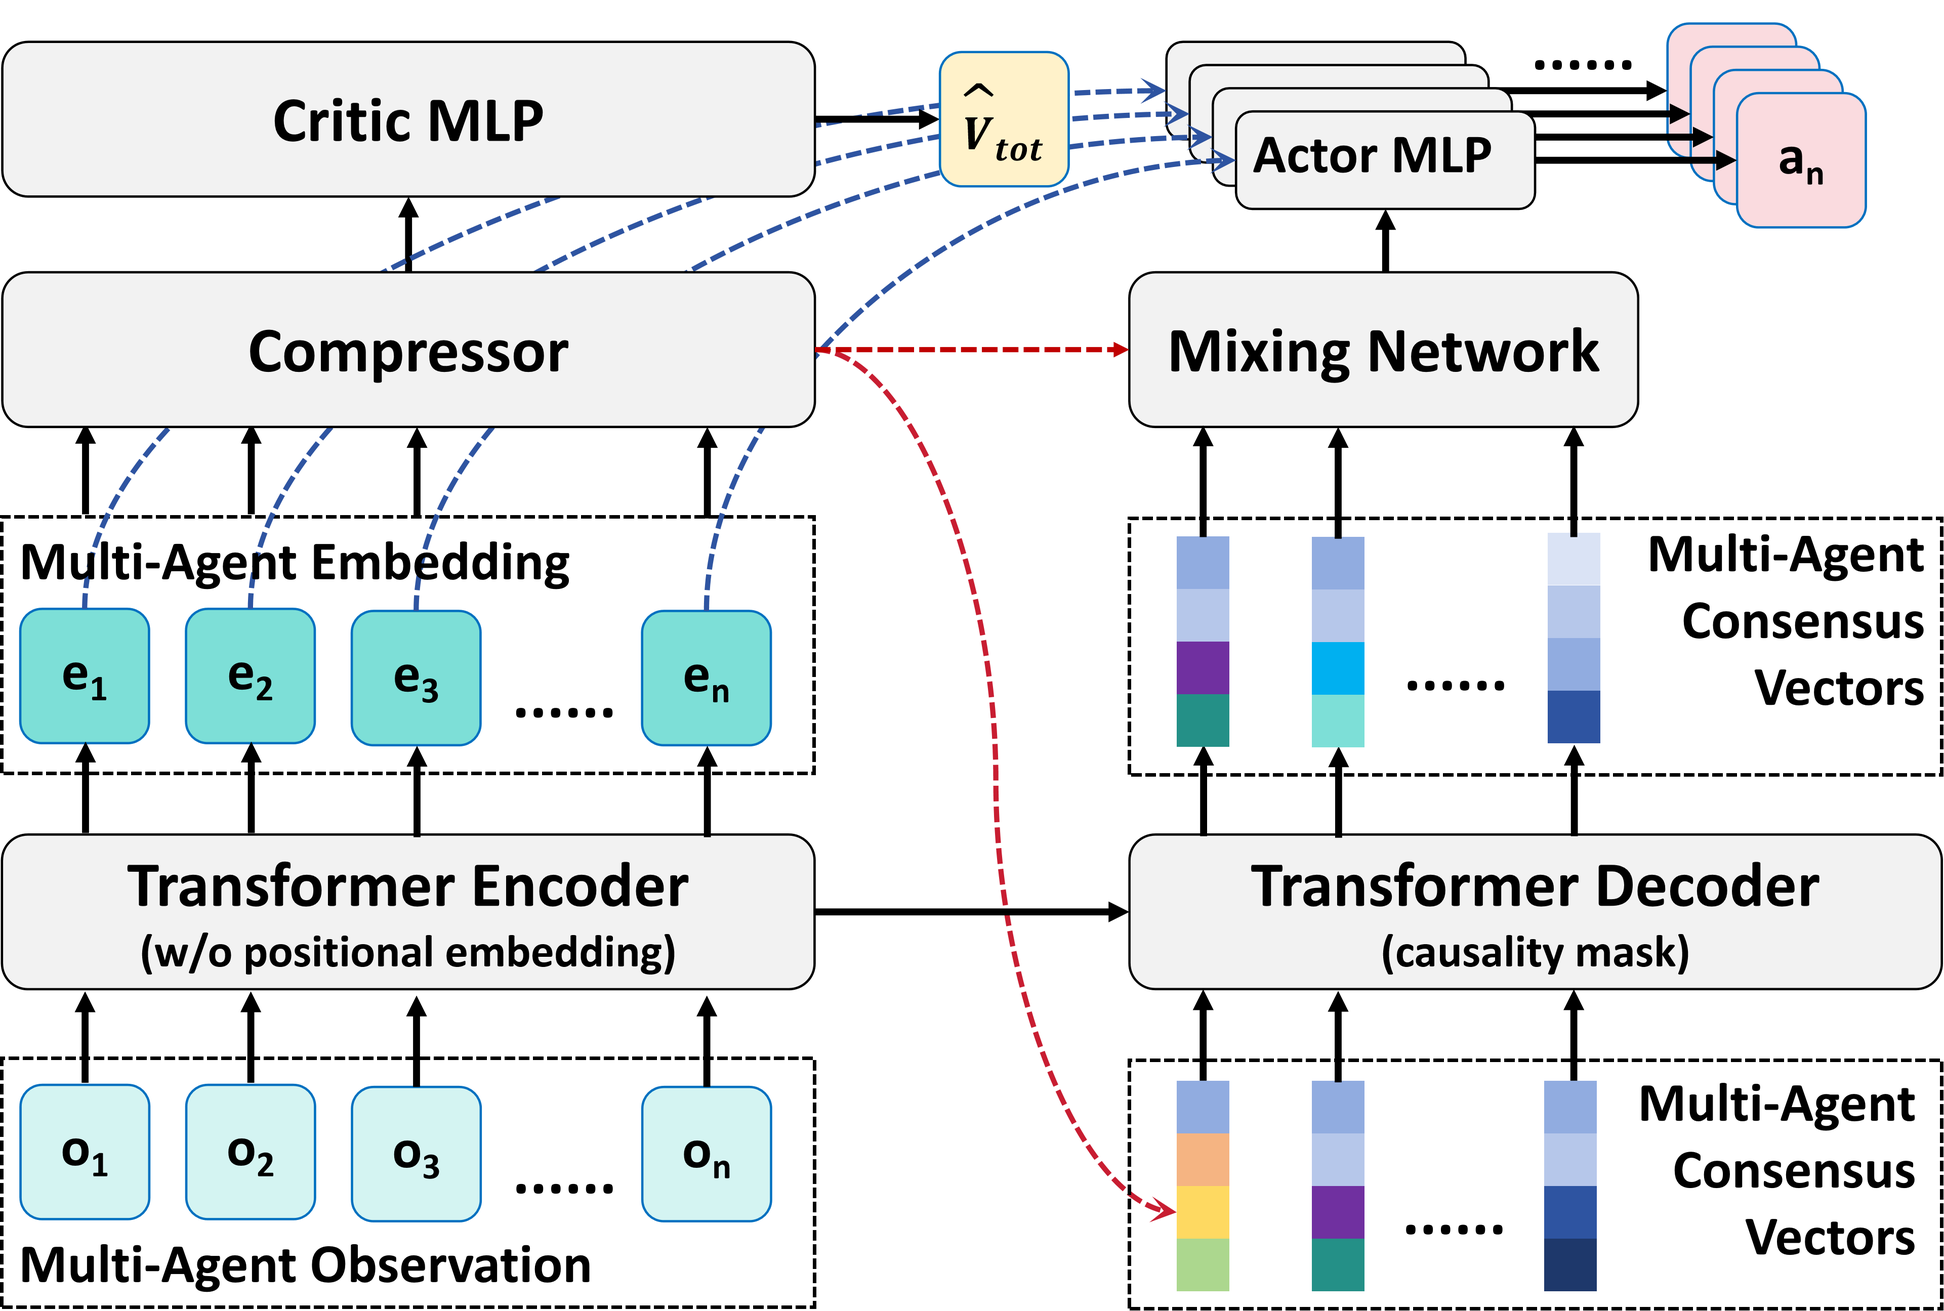
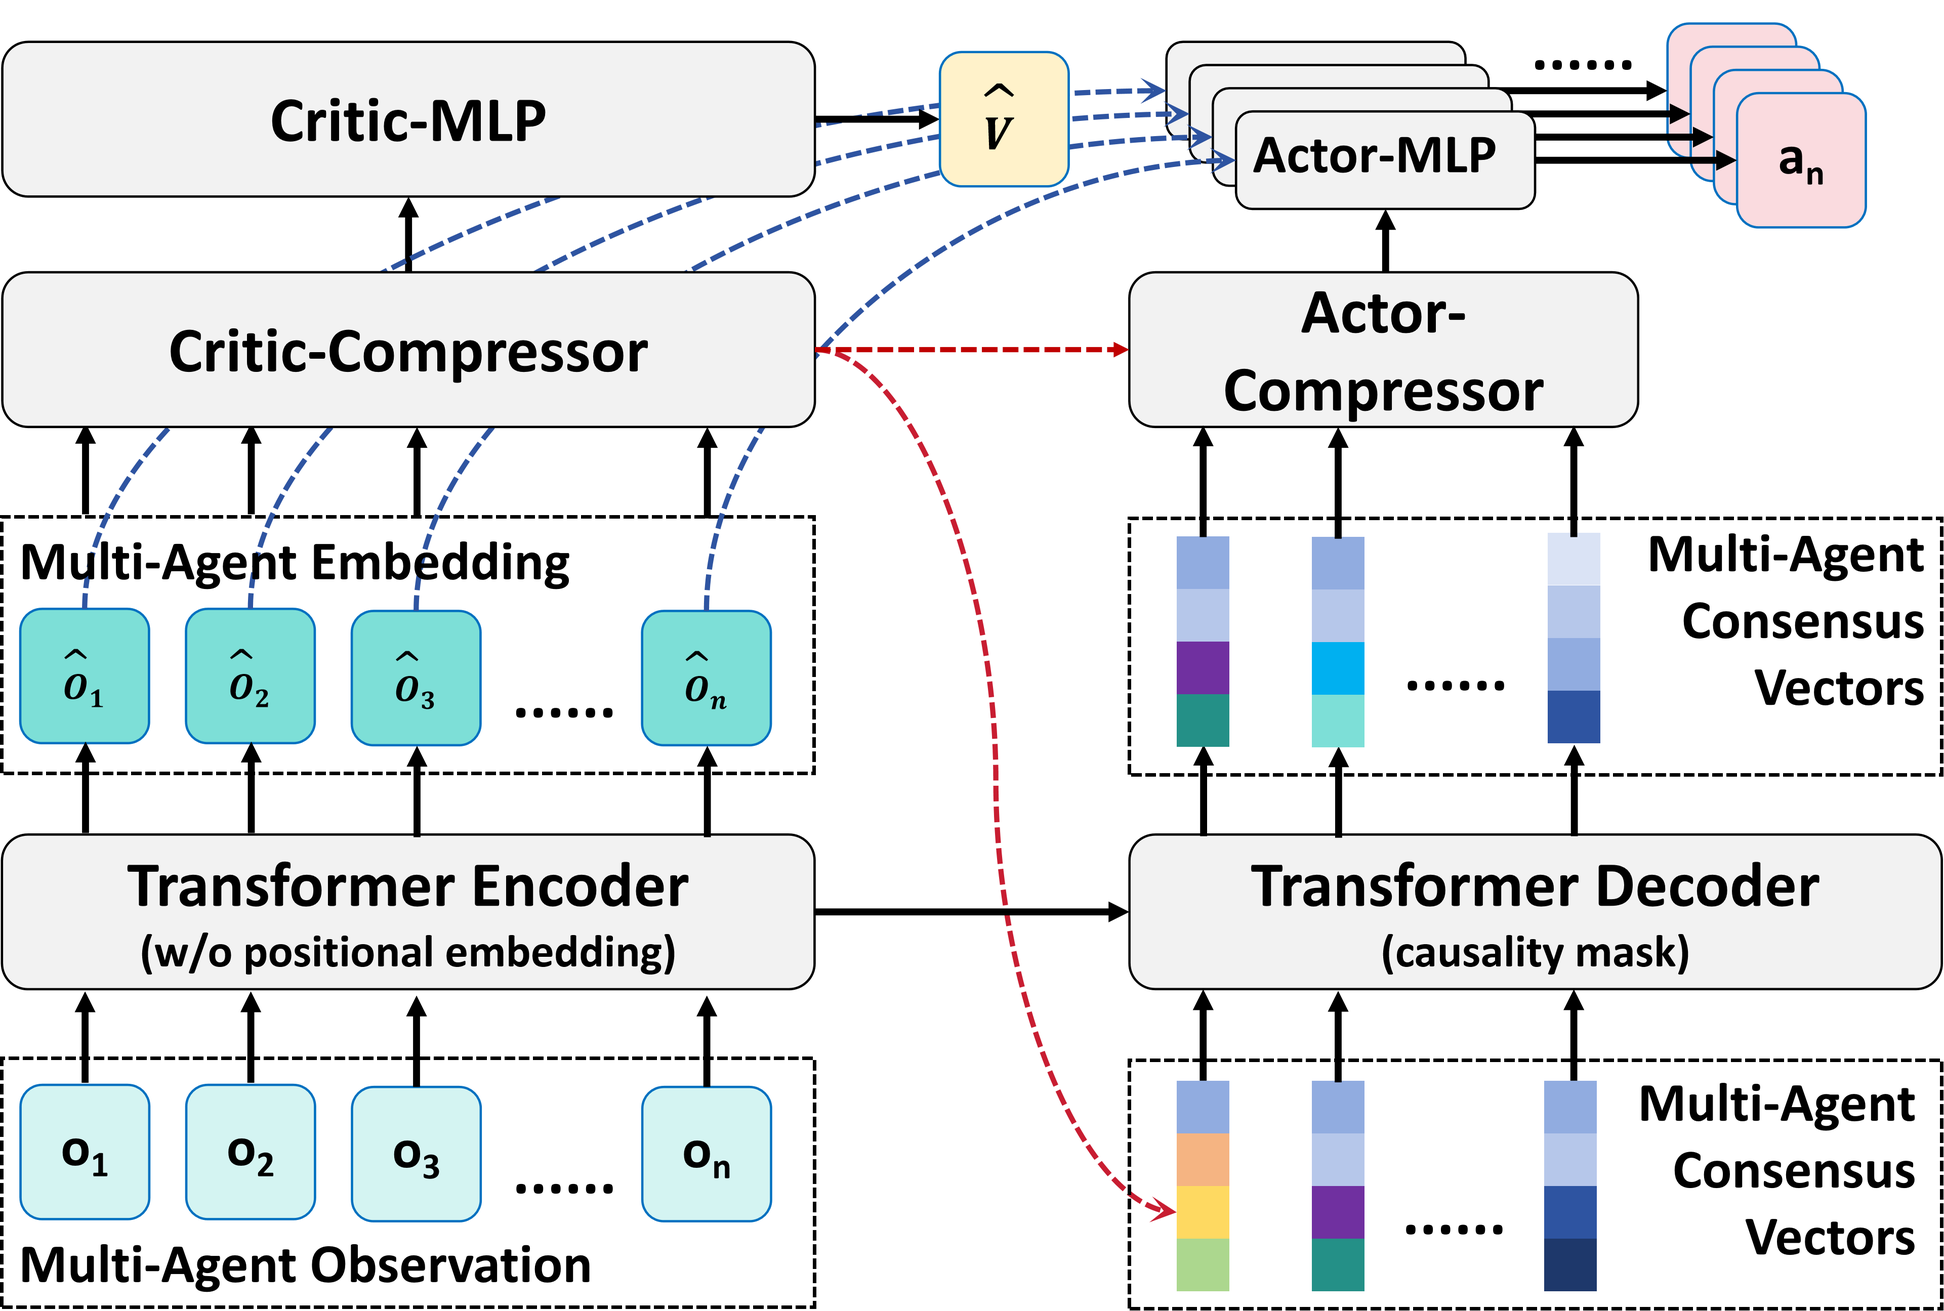
add trainer

diff --git a/mat_trainer.py b/mat_trainer.py
@@ -1,0 +1,207 @@
+import numpy as np
+import torch
+import torch.nn as nn
+from mat.utils.util import get_gard_norm, huber_loss, mse_loss
+from mat.utils.valuenorm import ValueNorm
+from mat.algorithms.utils.util import check
+
+
+class MATTrainer:
+    """
+    Trainer class for MAT to update policies.
+    :param args: (argparse.Namespace) arguments containing relevant model, policy, and env information.
+    :param policy: (R_MAPPO_Policy) policy to update.
+    :param device: (torch.device) specifies the device to run on (cpu/gpu).
+    """
+    def __init__(self,
+                 args,
+                 policy,
+                 num_agents,
+                 device=torch.device("cpu")):
+
+        self.device = device
+        self.tpdv = dict(dtype=torch.float32, device=device)
+        self.policy = policy
+        self.num_agents = num_agents
+
+        self.clip_param = args.clip_param
+        self.ppo_epoch = args.ppo_epoch
+        self.num_mini_batch = args.num_mini_batch
+        self.data_chunk_length = args.data_chunk_length
+        self.value_loss_coef = args.value_loss_coef
+        self.entropy_coef = args.entropy_coef
+        self.max_grad_norm = args.max_grad_norm       
+        self.huber_delta = args.huber_delta
+
+        self._use_recurrent_policy = args.use_recurrent_policy
+        self._use_naive_recurrent = args.use_naive_recurrent_policy
+        self._use_max_grad_norm = args.use_max_grad_norm
+        self._use_clipped_value_loss = args.use_clipped_value_loss
+        self._use_huber_loss = args.use_huber_loss
+        self._use_valuenorm = args.use_valuenorm
+        self._use_value_active_masks = args.use_value_active_masks
+        self._use_policy_active_masks = args.use_policy_active_masks
+        self.dec_actor = args.dec_actor
+        
+        if self._use_valuenorm:
+            self.value_normalizer = ValueNorm(1, device=self.device)
+        else:
+            self.value_normalizer = None
+
+    def cal_value_loss(self, values, value_preds_batch, return_batch, active_masks_batch):
+        """
+        Calculate value function loss.
+        :param values: (torch.Tensor) value function predictions.
+        :param value_preds_batch: (torch.Tensor) "old" value  predictions from data batch (used for value clip loss)
+        :param return_batch: (torch.Tensor) reward to go returns.
+        :param active_masks_batch: (torch.Tensor) denotes if agent is active or dead at a given timesep.
+
+        :return value_loss: (torch.Tensor) value function loss.
+        """
+
+        value_pred_clipped = value_preds_batch + (values - value_preds_batch).clamp(-self.clip_param,
+                                                                                    self.clip_param)
+
+        if self._use_valuenorm:
+            self.value_normalizer.update(return_batch)
+            error_clipped = self.value_normalizer.normalize(return_batch) - value_pred_clipped
+            error_original = self.value_normalizer.normalize(return_batch) - values
+        else:
+            error_clipped = return_batch - value_pred_clipped
+            error_original = return_batch - values
+
+        if self._use_huber_loss:
+            value_loss_clipped = huber_loss(error_clipped, self.huber_delta)
+            value_loss_original = huber_loss(error_original, self.huber_delta)
+        else:
+            value_loss_clipped = mse_loss(error_clipped)
+            value_loss_original = mse_loss(error_original)
+
+        if self._use_clipped_value_loss:
+            value_loss = torch.max(value_loss_original, value_loss_clipped)
+        else:
+            value_loss = value_loss_original
+
+        # if self._use_value_active_masks and not self.dec_actor:
+        if self._use_value_active_masks:
+            value_loss = (value_loss * active_masks_batch).sum() / active_masks_batch.sum()
+        else:
+            value_loss = value_loss.mean()
+
+        return value_loss
+
+    def ppo_update(self, sample):
+        """
+        Update actor and critic networks.
+        :param sample: (Tuple) contains data batch with which to update networks.
+        :update_actor: (bool) whether to update actor network.
+
+        :return value_loss: (torch.Tensor) value function loss.
+        :return critic_grad_norm: (torch.Tensor) gradient norm from critic up9date.
+        ;return policy_loss: (torch.Tensor) actor(policy) loss value.
+        :return dist_entropy: (torch.Tensor) action entropies.
+        :return actor_grad_norm: (torch.Tensor) gradient norm from actor update.
+        :return imp_weights: (torch.Tensor) importance sampling weights.
+        """
+        share_obs_batch, obs_batch, rnn_states_batch, rnn_states_critic_batch, actions_batch, \
+        value_preds_batch, return_batch, masks_batch, active_masks_batch, old_action_log_probs_batch, \
+        adv_targ, available_actions_batch = sample
+
+        old_action_log_probs_batch = check(old_action_log_probs_batch).to(**self.tpdv)
+        adv_targ = check(adv_targ).to(**self.tpdv)
+        value_preds_batch = check(value_preds_batch).to(**self.tpdv)
+        return_batch = check(return_batch).to(**self.tpdv)
+        active_masks_batch = check(active_masks_batch).to(**self.tpdv)
+
+        # Reshape to do in a single forward pass for all steps
+        values, action_log_probs, dist_entropy = self.policy.evaluate_actions(share_obs_batch,
+                                                                              obs_batch, 
+                                                                              rnn_states_batch, 
+                                                                              rnn_states_critic_batch, 
+                                                                              actions_batch, 
+                                                                              masks_batch, 
+                                                                              available_actions_batch,
+                                                                              active_masks_batch)
+        # actor update
+        imp_weights = action_log_probs - old_action_log_probs_batch
+        imp_weights = torch.sum(imp_weights,dim=-1,keepdim=True)
+        imp_weights = torch.exp(imp_weights)
+
+        surr1 = imp_weights * adv_targ
+        surr2 = torch.clamp(imp_weights, 1.0 - self.clip_param, 1.0 + self.clip_param) * adv_targ
+
+        if self._use_policy_active_masks:
+            policy_loss = (-torch.mean(torch.min(surr1, surr2),
+                                      dim=-1,
+                                      keepdim=True) * active_masks_batch).sum() / active_masks_batch.sum()
+        else:
+            policy_loss = -torch.sum(torch.min(surr1, surr2), dim=-1, keepdim=True).mean()
+
+        # critic update
+        value_loss = self.cal_value_loss(values, value_preds_batch, return_batch, active_masks_batch)
+
+        loss = policy_loss - dist_entropy * self.entropy_coef + value_loss * self.value_loss_coef
+
+        self.policy.optimizer.zero_grad()
+        loss.backward()
+
+        if self._use_max_grad_norm:
+            grad_norm = nn.utils.clip_grad_norm_(self.policy.transformer.parameters(), self.max_grad_norm)
+        else:
+            grad_norm = get_gard_norm(self.policy.transformer.parameters())
+
+        self.policy.optimizer.step()
+
+        return value_loss, grad_norm, policy_loss, dist_entropy, grad_norm, imp_weights
+
+    def train(self, buffer):
+        """
+        Perform a training update using minibatch GD.
+        :param buffer: (SharedReplayBuffer) buffer containing training data.
+        :param update_actor: (bool) whether to update actor network.
+
+        :return train_info: (dict) contains information regarding training update (e.g. loss, grad norms, etc).
+        """
+        advantages_copy = buffer.advantages.copy()
+        advantages_copy[buffer.active_masks[:-1] == 0.0] = np.nan
+        mean_advantages = np.nanmean(advantages_copy)
+        std_advantages = np.nanstd(advantages_copy)
+        advantages = (buffer.advantages - mean_advantages) / (std_advantages + 1e-5)
+        
+
+        train_info = {}
+
+        train_info['value_loss'] = 0
+        train_info['policy_loss'] = 0
+        train_info['dist_entropy'] = 0
+        train_info['actor_grad_norm'] = 0
+        train_info['critic_grad_norm'] = 0
+        train_info['ratio'] = 0
+
+        for _ in range(self.ppo_epoch):
+            data_generator = buffer.feed_forward_generator_transformer(advantages, self.num_mini_batch)
+
+            for sample in data_generator:
+
+                value_loss, critic_grad_norm, policy_loss, dist_entropy, actor_grad_norm, imp_weights \
+                    = self.ppo_update(sample)
+
+                train_info['value_loss'] += value_loss.item()
+                train_info['policy_loss'] += policy_loss.item()
+                train_info['dist_entropy'] += dist_entropy.item()
+                train_info['actor_grad_norm'] += actor_grad_norm
+                train_info['critic_grad_norm'] += critic_grad_norm
+                train_info['ratio'] += imp_weights.mean()
+
+        num_updates = self.ppo_epoch * self.num_mini_batch
+
+        for k in train_info.keys():
+            train_info[k] /= num_updates
+ 
+        return train_info
+
+    def prep_training(self):
+        self.policy.train()
+
+    def prep_rollout(self):
+        self.policy.eval()

diff --git a/cmat.py b/cmat.py
@@ -11,6 +11,7 @@ from mat.algorithms.utils.transformer_act import continuous_autoregreesive_act
 from mat.algorithms.utils.transformer_act import continuous_parallel_act
 from torch.distributions import Categorical, Normal
 
+Consensus_length = None
 
 class SelfCompression(nn.Module):
     def __init__(self, input_dim, output_dim, da, r):
@@ -217,38 +218,15 @@ class Decoder(nn.Module):
         if self.dec_actor:
             print("Don't support dec_actor.")
             exit()
-            # if self.share_actor:
-            #     print("mac_dec!!!!!")
-            #     self.mlp = nn.Sequential(nn.LayerNorm(obs_dim),
-            #                              init_(nn.Linear(obs_dim, n_embd), activate=True), nn.GELU(), nn.LayerNorm(n_embd),
-            #                              init_(nn.Linear(n_embd, n_embd), activate=True), nn.GELU(), nn.LayerNorm(n_embd),
-            #                              init_(nn.Linear(n_embd, action_dim)))
-            # else:
-            #     self.mlp = nn.ModuleList()
-            #     for n in range(n_agent):
-            #         actor = nn.Sequential(nn.LayerNorm(obs_dim),
-            #                               init_(nn.Linear(obs_dim, n_embd), activate=True), nn.GELU(), nn.LayerNorm(n_embd),
-            #                               init_(nn.Linear(n_embd, n_embd), activate=True), nn.GELU(), nn.LayerNorm(n_embd),
-            #                               init_(nn.Linear(n_embd, action_dim)))
-            #         self.mlp.append(actor)
         else:
-            # # self.agent_id_emb = nn.Parameter(torch.zeros(1, n_agent, n_embd))
-            # if action_type == 'Discrete':
-            #     self.action_encoder = nn.Sequential(init_(nn.Linear(action_dim + 1, n_embd, bias=False), activate=True),
-            #                                         nn.GELU())
-            # else:
-            #     self.action_encoder = nn.Sequential(init_(nn.Linear(action_dim, n_embd), activate=True), nn.GELU())
-            # self.obs_encoder = nn.Sequential(nn.LayerNorm(obs_dim),
-            #                                  init_(nn.Linear(obs_dim, n_embd), activate=True), nn.GELU())
-            # self.ln = nn.LayerNorm(n_embd)
-            # self.blocks = nn.Sequential(*[DecodeBlock(n_embd, n_head, n_agent) for _ in range(n_block)])
-            # self.head = nn.Sequential(init_(nn.Linear(n_embd, n_embd), activate=True), nn.GELU(), nn.LayerNorm(n_embd),
-            #                           init_(nn.Linear(n_embd, action_dim)))
+
+            if Consensus_length is None:
+                self.consensus_len = n_agent
+            else:
+                self.consensus_len = Consensus_length
 
             self.sos = nn.Parameter(torch.randn([1, n_embd]), requires_grad=True)
-
-            # self.compressor = SelfCompression(n_embd, n_embd, n_embd, 4)
-            self.blocks = nn.Sequential(*[DecodeBlock(n_embd, n_head, n_agent) for _ in range(n_block)])
+            self.blocks = nn.Sequential(*[DecodeBlock(n_embd, n_head, self.consensus_len) for _ in range(n_block)])
 
             self.projector = nn.Sequential(nn.LayerNorm(n_embd),
                                            init_(nn.Linear(n_embd, n_embd), activate=True), nn.GELU(),
@@ -259,18 +237,11 @@ class Decoder(nn.Module):
                                       init_(nn.Linear(n_embd, 1)))
             self.softmax = nn.Softmax(dim=1)
 
-            # self.head = nn.ModuleList()
-            # for n in range(n_agent):
-            #     actor = nn.Sequential(nn.LayerNorm(n_embd),
-            #                           init_(nn.Linear(n_embd, n_embd), activate=True), nn.GELU(), nn.LayerNorm(n_embd),
-            #                           init_(nn.Linear(n_embd, n_embd), activate=True), nn.GELU(), nn.LayerNorm(n_embd),
-            #                           init_(nn.Linear(n_embd, action_dim)))
-            #     self.head.append(actor)
             self.head = nn.Sequential(
                 nn.LayerNorm(n_embd * 2),
                 init_(nn.Linear(n_embd * 2, n_embd), activate=True), nn.GELU(), nn.LayerNorm(n_embd),
                 init_(nn.Linear(n_embd, action_dim)))
-            self.pos_emb = get_sinusoidal_pos_emb(n_agent, n_embd)
+            self.pos_emb = get_sinusoidal_pos_emb(self.consensus_len, n_embd)
 
     def zero_std(self, device):
         if self.action_type != 'Discrete':
@@ -286,25 +257,9 @@ class Decoder(nn.Module):
         if self.dec_actor:
             print("Don't support dec_actor.")
             exit()
-            # if self.share_actor:
-            #     logit = self.mlp(obs)
-            # else:
-            #     logit = []
-            #     for n in range(len(self.mlp)):
-            #         logit_n = self.mlp[n](obs[:, n, :])
-            #         logit.append(logit_n)
-            #     logit = torch.stack(logit, dim=1)
         else:
-            # action_embeddings = self.action_encoder(action)
-            # x = self.ln(action_embeddings)
-            # for block in self.blocks:
-            #     x = block(x, obs_rep)
-            # logit = self.head(x)
-
-            # sos = self.compressor(obs_rep)
             sos = prefix
-            # sos = self.sos
-            x_dec = torch.zeros_like(obs_rep)  # TODO: change the length
+            x_dec = torch.zeros([obs_rep.shape[0],self.consensus_len,obs_rep.shape[2]]).to(obs_rep.device)
             x_dec[:, 0, :] = x_dec[:, 0, :] + sos
             x_dec = x_dec + self.pos_emb
 
@@ -323,11 +278,6 @@ class Decoder(nn.Module):
                     x_dec = torch.concat([x_dec[:, :i + 1, :], x[:, i:, :]], dim=1)
                     x = x_dec
 
-            # logit = []
-            # for n in range(len(self.head)):
-            #     logit_n = self.head[n](x[:, -1, :])
-            #     logit.append(logit_n)
-            # logit = torch.stack(logit, dim=1)
 
             weight = self.softmax(self.gate(x).squeeze(-1)).unsqueeze(-1)
             consensus = torch.sum(weight*x,dim=1,keepdim=True)
@@ -380,16 +330,7 @@ class ConsensusMultiAgentTransformer(nn.Module):
         if available_actions is not None:
             available_actions = check(available_actions).to(**self.tpdv)
 
-        batch_size = np.shape(state)[0]
         v_loc, obs_rep, prefix = self.encoder(state, obs)
-
-        # if self.action_type == 'Discrete':
-        #     action = action.long()
-        #     action_log, entropy = discrete_parallel_act(self.decoder, obs_rep, obs, action, batch_size,
-        #                                                 self.n_agent, self.action_dim, self.tpdv, available_actions)
-        # else:
-        #     action_log, entropy = continuous_parallel_act(self.decoder, obs_rep, obs, action, batch_size,
-        #                                                   self.n_agent, self.action_dim, self.tpdv)
 
         if self.action_type == 'Discrete':
             logit = self.decoder(None, obs_rep, None, prefix)
@@ -417,17 +358,7 @@ class ConsensusMultiAgentTransformer(nn.Module):
         if available_actions is not None:
             available_actions = check(available_actions).to(**self.tpdv)
 
-        # batch_size = np.shape(obs)[0]
         v_loc, obs_rep, prefix = self.encoder(state, obs)
-
-        # if self.action_type == "Discrete":
-        #     output_action, output_action_log = discrete_autoregreesive_act(self.decoder, obs_rep, obs, batch_size,
-        #                                                                    self.n_agent, self.action_dim, self.tpdv,
-        #                                                                    available_actions, deterministic)
-        # else:
-        #     output_action, output_action_log = continuous_autoregreesive_act(self.decoder, obs_rep, obs, batch_size,
-        #                                                                      self.n_agent, self.action_dim, self.tpdv,
-        #                                                                      deterministic)
 
         if self.action_type == 'Discrete':
             logit = self.decoder(None, obs_rep, None, prefix)
@@ -457,6 +388,3 @@ class ConsensusMultiAgentTransformer(nn.Module):
         obs = check(obs).to(**self.tpdv)
         v_tot, obs_rep, prefix = self.encoder(state, obs)
         return v_tot
-
-
-

diff --git a/README.md b/README.md
@@ -1,5 +1,7 @@
 # CMAT
-**Paper:** CMAT: Order-Independent Multi-Agent Transformer via Consensus Mechanism
+**Paper:** "CMAT: Order-Independent Multi-Agent Transformer via Consensus Mechanism" (under review)
+
+
 
 ## 1. Workflow
 
@@ -9,7 +11,11 @@
 
 ## 2. How to Run
 
-This work is based on the code of [PKU-MARL/Multi-Agent-Transformer](https://github.com/PKU-MARL/Multi-Agent-Transformer). Please add `cmat.py` in this repository to `./Multi-Agent-Transformer/mat/algorithms/mat/algorithm` and set the `--algorithm` as `cmat`.
+This implementation is based on the [PKU-MARL/Multi-Agent-Transformer](https://github.com/PKU-MARL/Multi-Agent-Transformer) repository. To set up CMAT: 
+
+1. Add `cmat.py` from this repository to the `./Multi-Agent-Transformer/mat/algorithms/mat/algorithm` directory. 
+2. Replace the existing `mat_trainer.py` file in `./Multi-Agent-Transformer/mat/algorithms/mat` with the one from this repository.
+3. Set the `--algorithm_name` parameter to `cmat` when running your experiments.
 
 
 
